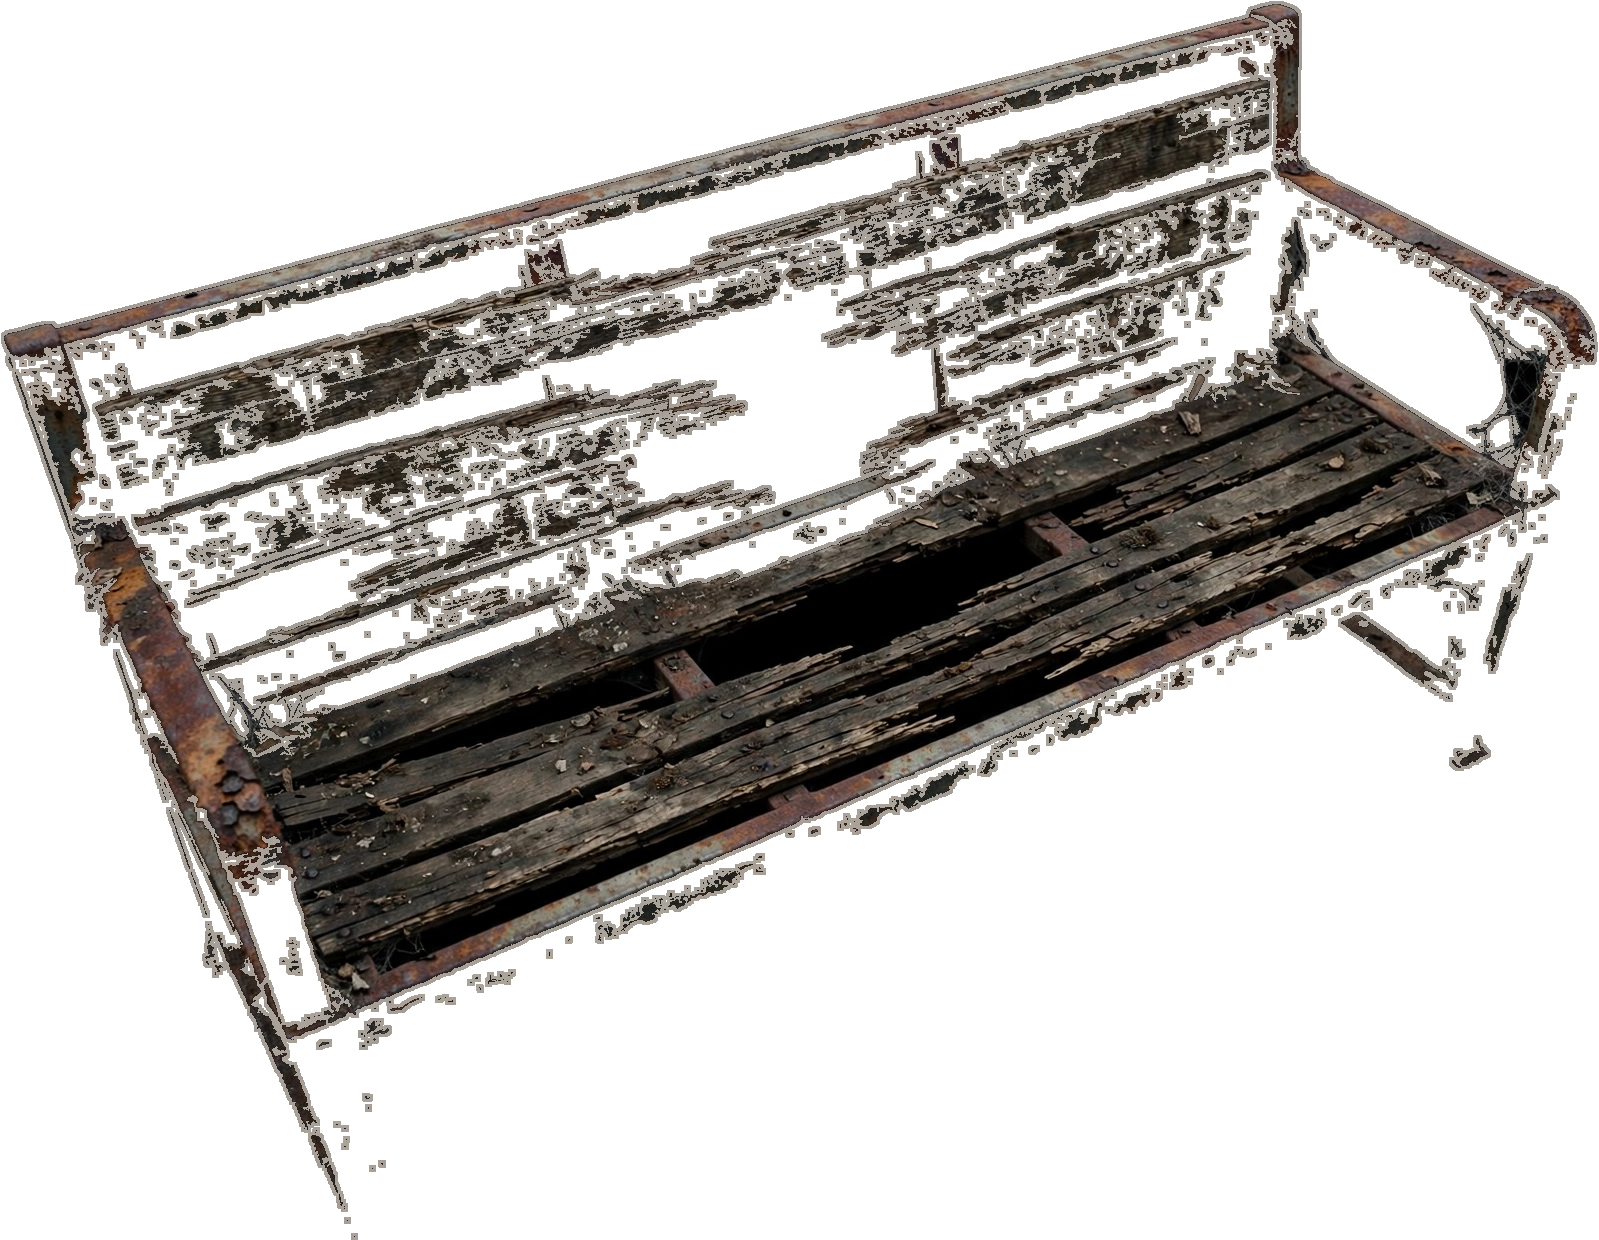
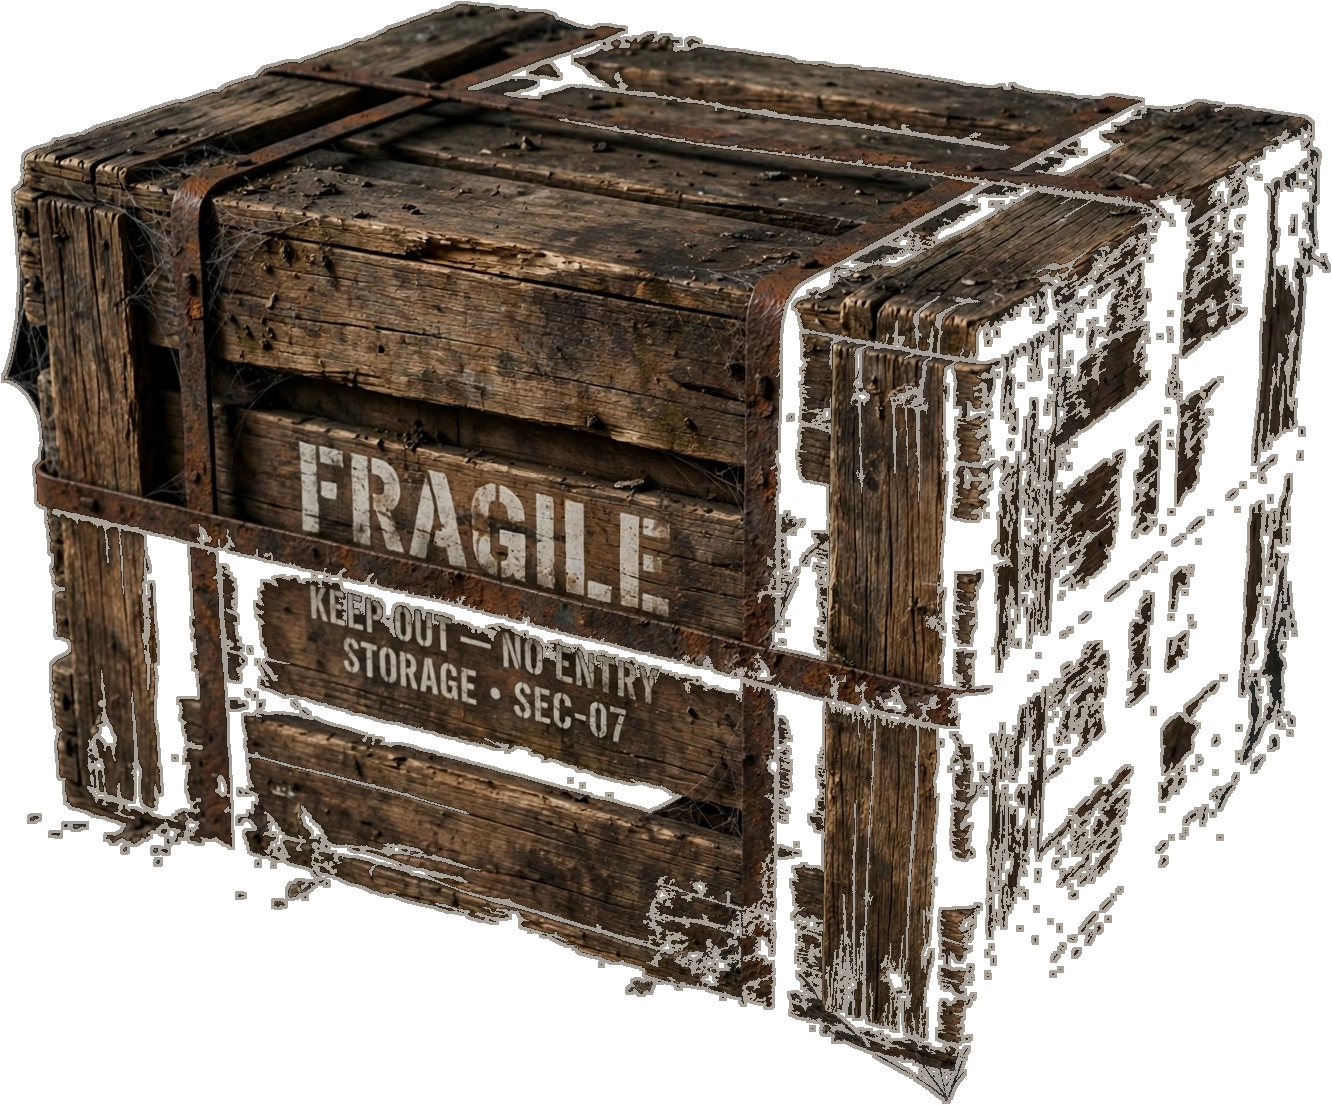
test

diff --git a/game.js b/game.js
@@ -31,7 +31,7 @@ function loadSprite(key, src) {
   img.onerror = () => { sprLoaded++; };
   img.src = src; SPR[key] = img;
 }
-const ASSET_V = 'v=0.9.1';
+const ASSET_V = 'v=0.9.2';
 loadSprite('tobi', 'assets/tobi-battle.png?' + ASSET_V);
 loadSprite('lumi', 'assets/lumi-battle.png?' + ASSET_V);
 // 캐릭터 걷기 애니메이션 프레임 (6프레임)
@@ -78,7 +78,8 @@ function hash2(x, y) {
   return (h ^ (h >>> 16)) >>> 0;
 }
 // 돌무더기(막힘): 1000px 셀당 42% 확률, 스폰 지점(원점 반경 700px) 제외
-const ROCK_CELL = 1000, ROCK_R = 34;
+// 충돌은 발판 전체를 타원으로 막음 (뒤로 숨을 수 없음)
+const ROCK_CELL = 1000, ROCK_RX = 66, ROCK_RY = 38, ROCK_CY = -28;
 function rockInCell(cx, cy) {
   const h = hash2(cx, cy);
   if (h % 100 >= 42) return null;
@@ -97,12 +98,17 @@ function eachRockNear(x, y, r, cb) {
   }
 }
 function collideRocks(o, rad) {
-  eachRockNear(o.x, o.y, rad + ROCK_R + 2, (pl) => {
-    const dx = o.x - pl.x, dy = o.y - pl.y;
-    const d = Math.hypot(dx, dy), min = rad + ROCK_R;
-    if (d < min) {
-      if (d > 0.01) { o.x = pl.x + dx / d * min; o.y = pl.y + dy / d * min; }
-      else o.x = pl.x + min;
+  eachRockNear(o.x, o.y, rad + 72, (rk) => {
+    const cx = rk.x, cy = rk.y + ROCK_CY;
+    const rx = ROCK_RX + rad, ry = ROCK_RY + rad;
+    const dx = (o.x - cx) / rx, dy = (o.y - cy) / ry;
+    const d2 = dx * dx + dy * dy;
+    if (d2 < 1) {
+      if (d2 > 0.0001) {
+        const d = Math.sqrt(d2);
+        o.x = cx + dx / d * rx;
+        o.y = cy + dy / d * ry;
+      } else { o.x = cx + rx; o.y = cy; }
     }
   });
 }
@@ -1422,16 +1428,16 @@ function updatePickups(dt) {
   }
 }
 function drawProps() {
-  const tcSpr = sprFor('prop-trashcan', 44, 45);
-  const bSpr = sprFor('prop-bench', 72, 56);
+  const tcSpr = sprFor('prop-trashcan', 46, 57);
+  const bSpr = sprFor('prop-bench', 72, 60);
   for (const pr of G.props) {
     const flash = pr.flash > 0;
     ctx.fillStyle = 'rgba(0,0,0,0.3)';
     ctx.beginPath(); ctx.ellipse(pr.x, pr.y + pr.r * 0.7, pr.r * 0.8, pr.r * 0.25, 0, 0, TAU); ctx.fill();
     if (pr.kind === 'trash') {
-      if (tcSpr) ctx.drawImage(tcSpr, pr.x - 22, pr.y - 40, 44, 45);
+      if (tcSpr) ctx.drawImage(tcSpr, pr.x - 23, pr.y - 50, 46, 57);
     } else {
-      if (bSpr) ctx.drawImage(bSpr, pr.x - 36, pr.y - 44, 72, 56);
+      if (bSpr) ctx.drawImage(bSpr, pr.x - 36, pr.y - 48, 72, 60);
     }
     if (flash) { // 피격 플래시
       ctx.globalAlpha = 0.5; ctx.fillStyle = '#fff';

diff --git a/index.html b/index.html
@@ -66,6 +66,6 @@
   <button id="btn-clear-retry">다시 도전</button>
 </div>
 
-<script src="game.js?v=0.9.1"></script>
+<script src="game.js?v=0.9.2"></script>
 </body>
 </html>
